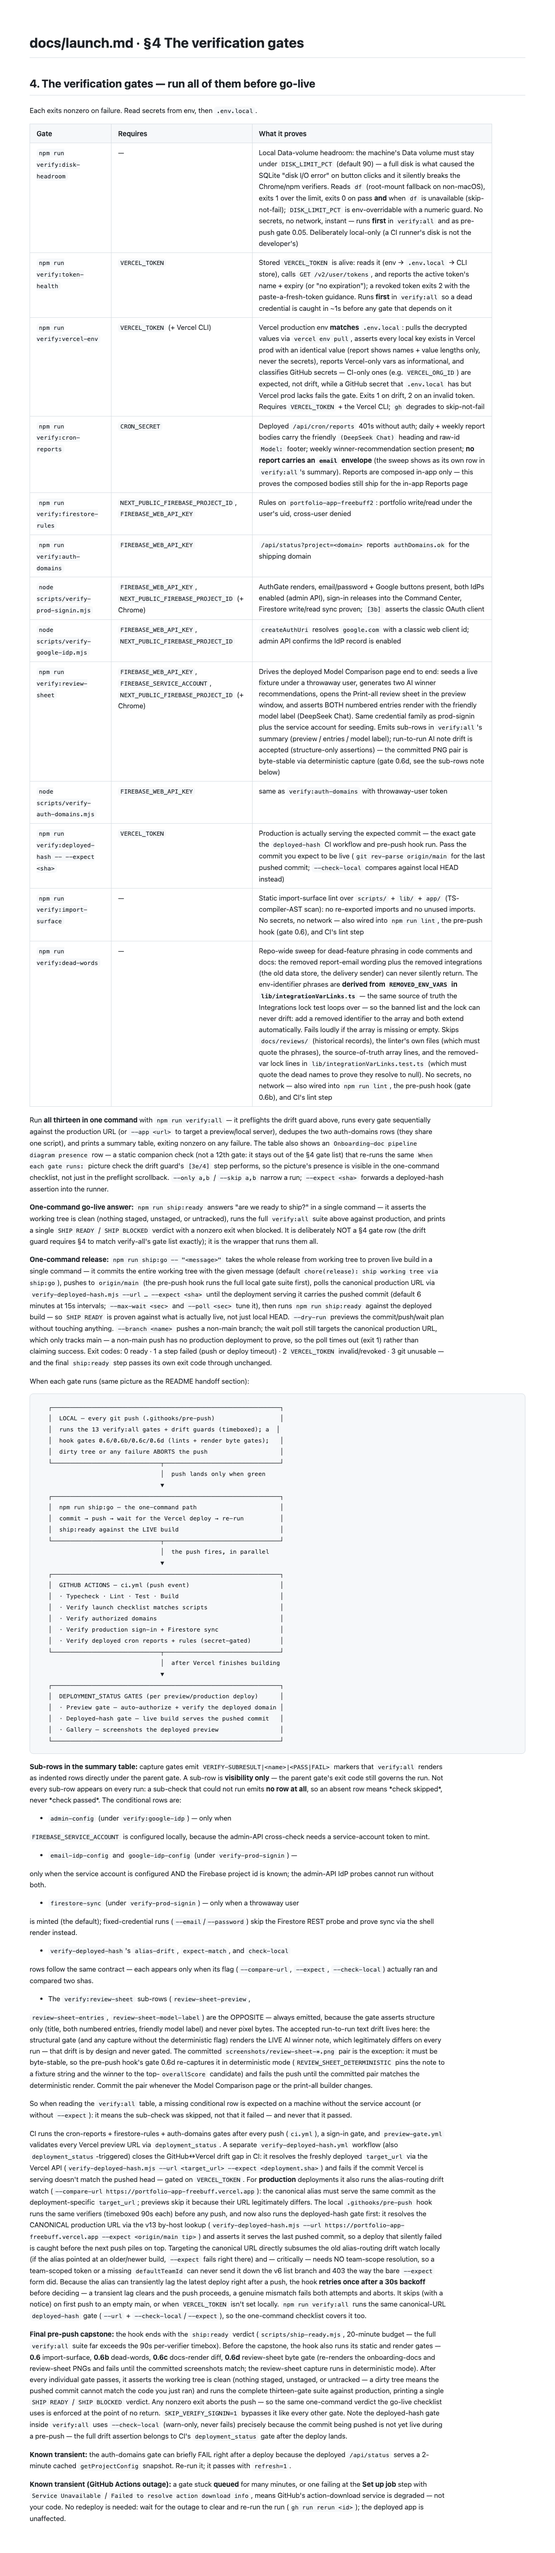
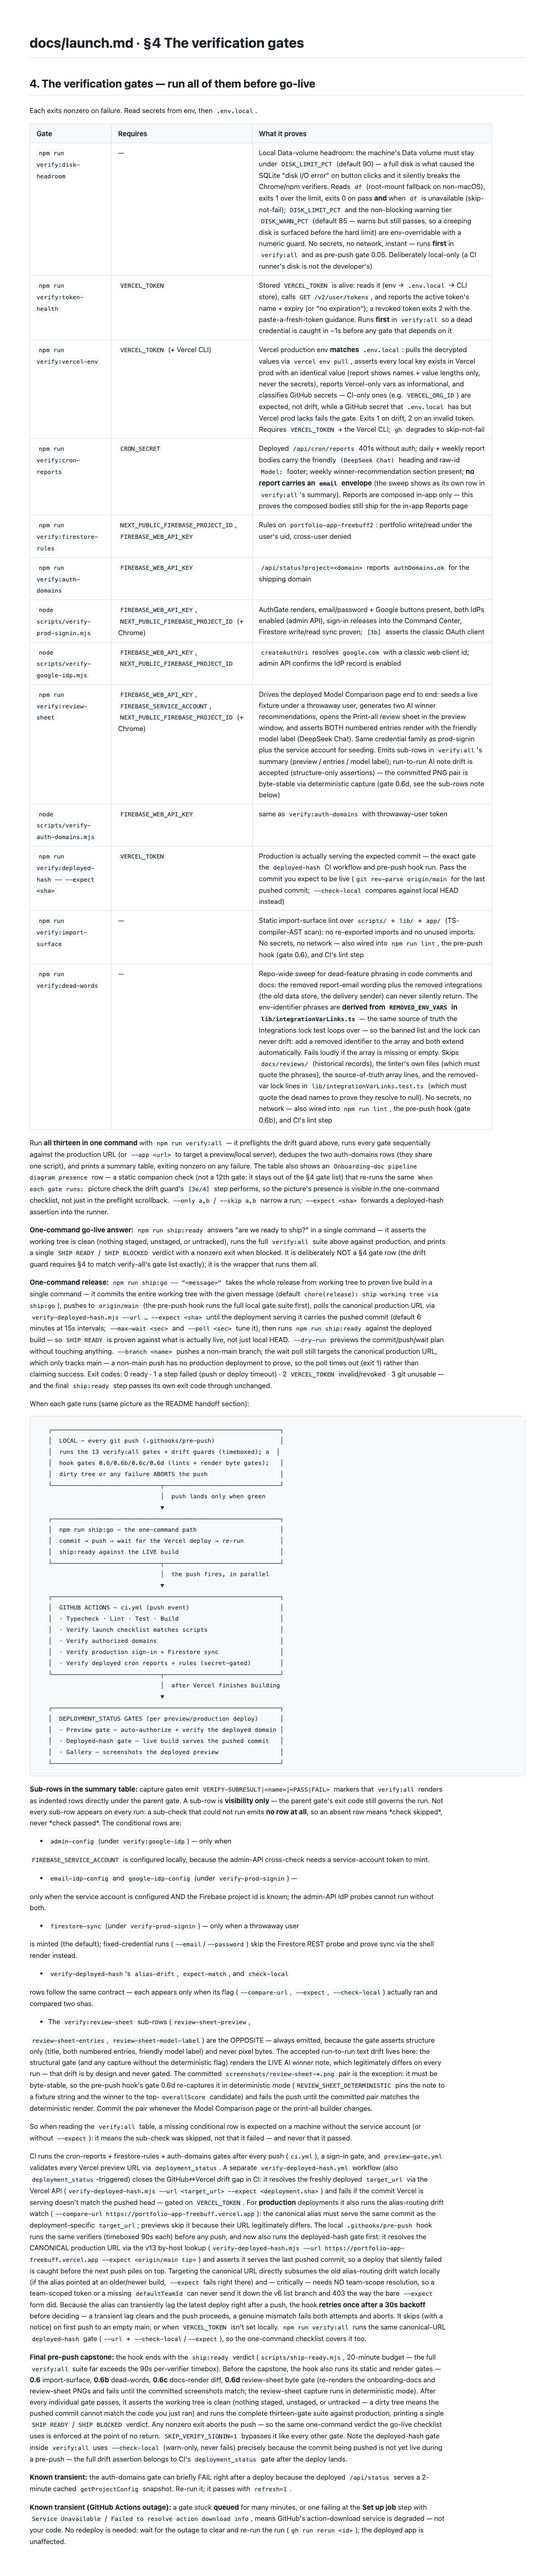
feat(verify): warn non-blocking at 85% in the disk-headroom gate
A creeping disk is now surfaced before the 90% hard limit: the gate
prints a warning (still exit 0) once the probed volume crosses
DISK_WARN_PCT (default 85), so SQLite writes are protected by an early
heads-up instead of a surprise. Lives in the one shared script —
pre-push gate 0.05, verify:all, and launch.md §4 all inherit it — with
the same numeric guard as the limit. The warning never fires when the
warn threshold is set at/above the limit (the hard limit governs).
Verdict contract extended (pass carries warn: true/false) and locked
with 7 new tests covering the warn boundary, override, and suppression.
Docs + hook comments updated; onboarding PNGs re-captured.

Generated with Codebuff 🤖

diff --git a/scripts/verify-disk-headroom.test.ts b/scripts/verify-disk-headroom.test.ts
@@ -2,10 +2,12 @@ import { describe, expect, it } from 'vitest';
 
 import {
   DEFAULT_DISK_LIMIT_PCT,
+  DEFAULT_DISK_WARN_PCT,
   diskHeadroomVerdict,
   parseUsePct,
   probeUsePct,
   resolveLimit,
+  resolveWarn,
 } from './verify-disk-headroom.mjs';
 
 // probeUsePct takes the df runner as an injectable argument (default: real
@@ -78,6 +80,25 @@ describe('resolveLimit · env override safety', () => {
   });
 });
 
+describe('resolveWarn · the 85% warning threshold', () => {
+  it('defaults to 85 when the env var is unset or blank', () => {
+    expect(resolveWarn(undefined)).toBe(DEFAULT_DISK_WARN_PCT);
+    expect(resolveWarn('')).toBe(DEFAULT_DISK_WARN_PCT);
+    expect(DEFAULT_DISK_WARN_PCT).toBe(85);
+  });
+
+  it('honors a valid numeric override', () => {
+    expect(resolveWarn('80')).toBe(80);
+    expect(resolveWarn('88')).toBe(88);
+  });
+
+  it('falls back to 85 on a non-numeric or non-positive override', () => {
+    expect(resolveWarn('abc')).toBe(DEFAULT_DISK_WARN_PCT);
+    expect(resolveWarn('0')).toBe(DEFAULT_DISK_WARN_PCT);
+    expect(resolveWarn('-3')).toBe(DEFAULT_DISK_WARN_PCT);
+  });
+});
+
 describe('probeUsePct · mount probing (injected df runner)', () => {
   it('returns { pct, mount } when df succeeds on the Data volume', () => {
     const runDf = (mount) => (mount === '/System/Volumes/Data' ? DF_OUT(81, mount) : '');
@@ -114,21 +135,71 @@ describe('diskHeadroomVerdict · the exit-decision contract', () => {
     });
   });
 
-  it('maps an under-limit probe to pass (exit 0)', () => {
+  it('maps an under-limit probe to pass (exit 0) without a warning', () => {
     expect(diskHeadroomVerdict({ probed: { pct: 78, mount: '/' }, limit: 90 })).toEqual({
       kind: 'pass',
       pct: 78,
       mount: '/',
       limit: 90,
+      warn: false,
     });
   });
 
   it('passes AT the limit (strictly OVER fails — the "over 90%" contract)', () => {
+    // Exactly at the hard limit passes (the -gt semantics), and since 90 also
+    // crosses the default 85 warn threshold, the pass carries warn: true —
+    // exactly-at-limit is both a pass AND a warning, which is the point of
+    // the two-tier design.
     expect(diskHeadroomVerdict({ probed: { pct: 90, mount: '/System/Volumes/Data' }, limit: 90 })).toEqual({
       kind: 'pass',
       pct: 90,
       mount: '/System/Volumes/Data',
       limit: 90,
+      warn: true,
+    });
+  });
+});
+
+describe('diskHeadroomVerdict · the non-blocking 85% warning tier', () => {
+  it('warns (still pass, exit 0) when the pct crosses the warn threshold but is under the limit', () => {
+    expect(diskHeadroomVerdict({ probed: { pct: 87, mount: '/System/Volumes/Data' }, limit: 90 })).toEqual({
+      kind: 'pass',
+      pct: 87,
+      mount: '/System/Volumes/Data',
+      limit: 90,
+      warn: true,
+    });
+  });
+
+  it('does NOT warn exactly AT the warn threshold (strictly-over semantics)', () => {
+    expect(diskHeadroomVerdict({ probed: { pct: 85, mount: '/' }, limit: 90 })).toEqual({
+      kind: 'pass',
+      pct: 85,
+      mount: '/',
+      limit: 90,
+      warn: false,
+    });
+  });
+
+  it('honors a DISK_WARN_PCT override', () => {
+    expect(diskHeadroomVerdict({ probed: { pct: 82, mount: '/' }, limit: 90, warnLimit: 80 })).toEqual({
+      kind: 'pass',
+      pct: 82,
+      mount: '/',
+      limit: 90,
+      warn: true,
+    });
+  });
+
+  it('never warns when the warn threshold sits at or above the hard limit (the limit governs)', () => {
+    // With warnLimit 90 = limit 90, no value can cross the warn threshold and
+    // still be a pass — the warning is unreachable by design.
+    expect(diskHeadroomVerdict({ probed: { pct: 88, mount: '/' }, limit: 90, warnLimit: 90 })).toEqual({
+      kind: 'pass',
+      pct: 88,
+      mount: '/',
+      limit: 90,
+      warn: false,
     });
   });
 });

diff --git a/docs/launch.md b/docs/launch.md
@@ -73,7 +73,7 @@ Each exits nonzero on failure. Read secrets from env, then `.env.local`.
 
 | Gate | Requires | What it proves |
 | --- | --- | --- |
-| `npm run verify:disk-headroom` | — | Local Data-volume headroom: the machine's Data volume must stay under `DISK_LIMIT_PCT` (default 90) — a full disk is what caused the SQLite "disk I/O error" on button clicks and it silently breaks the Chrome/npm verifiers. Reads `df` (root-mount fallback on non-macOS), exits 1 over the limit, exits 0 on pass **and** when `df` is unavailable (skip-not-fail); `DISK_LIMIT_PCT` is env-overridable with a numeric guard. No secrets, no network, instant — runs **first** in `verify:all` and as pre-push gate 0.05. Deliberately local-only (a CI runner's disk is not the developer's) |
+| `npm run verify:disk-headroom` | — | Local Data-volume headroom: the machine's Data volume must stay under `DISK_LIMIT_PCT` (default 90) — a full disk is what caused the SQLite "disk I/O error" on button clicks and it silently breaks the Chrome/npm verifiers. Reads `df` (root-mount fallback on non-macOS), exits 1 over the limit, exits 0 on pass **and** when `df` is unavailable (skip-not-fail); `DISK_LIMIT_PCT` and the non-blocking warning tier `DISK_WARN_PCT` (default 85 — warns but still passes, so a creeping disk is surfaced before the hard limit) are env-overridable with a numeric guard. No secrets, no network, instant — runs **first** in `verify:all` and as pre-push gate 0.05. Deliberately local-only (a CI runner's disk is not the developer's) |
 | `npm run verify:token-health` | `VERCEL_TOKEN` | Stored `VERCEL_TOKEN` is alive: reads it (env → `.env.local` → CLI store), calls `GET /v2/user/tokens`, and reports the active token's name + expiry (or "no expiration"); a revoked token exits 2 with the paste-a-fresh-token guidance. Runs **first** in `verify:all` so a dead credential is caught in ~1s before any gate that depends on it |
 | `npm run verify:vercel-env` | `VERCEL_TOKEN` (+ Vercel CLI) | Vercel production env **matches** `.env.local`: pulls the decrypted values via `vercel env pull`, asserts every local key exists in Vercel prod with an identical value (report shows names + value lengths only, never the secrets), reports Vercel-only vars as informational, and classifies GitHub secrets — CI-only ones (e.g. `VERCEL_ORG_ID`) are expected, not drift, while a GitHub secret that `.env.local` has but Vercel prod lacks fails the gate. Exits 1 on drift, 2 on an invalid token. Requires `VERCEL_TOKEN` + the Vercel CLI; `gh` degrades to skip-not-fail |
 | `npm run verify:cron-reports` | `CRON_SECRET` | Deployed `/api/cron/reports` 401s without auth; daily + weekly report bodies carry the friendly `(DeepSeek Chat)` heading and raw-id `Model:` footer; weekly winner-recommendation section present; **no report carries an `email` envelope** (the sweep shows as its own row in `verify:all`'s summary). Reports are composed in-app only — this proves the composed bodies still ship for the in-app Reports page |

diff --git a/README.md b/README.md
@@ -103,7 +103,7 @@ reads its secrets from env, then `.env.local`:
 
 | Gate | Requires | Proves |
 | --- | --- | --- |
-| disk-headroom | — | Local Data-volume headroom: the machine's Data volume stays under `DISK_LIMIT_PCT` (default 90) via `df` — a full disk caused the SQLite "disk I/O error" on button clicks. Skip-not-fail when `df` is unavailable. Also pre-push gate 0.05 |
+| disk-headroom | — | Local Data-volume headroom: the machine's Data volume stays under `DISK_LIMIT_PCT` (default 90) via `df`, with a non-blocking warning once it crosses `DISK_WARN_PCT` (default 85) — a full disk caused the SQLite "disk I/O error" on button clicks. Skip-not-fail when `df` is unavailable. Also pre-push gate 0.05 |
 | token-health | `VERCEL_TOKEN` | the stored Vercel token is alive (name + expiry) |
 | vercel-env | `VERCEL_TOKEN` (+ Vercel CLI) | Vercel prod env matches `.env.local` |
 | cron-reports | `CRON_SECRET` | deployed cron 401s without auth; daily/weekly report bodies carry the friendly model heading + raw-id footer; no report send envelope |
